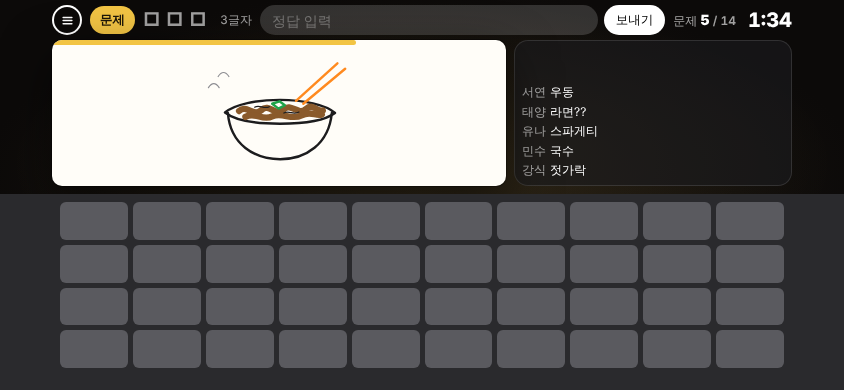
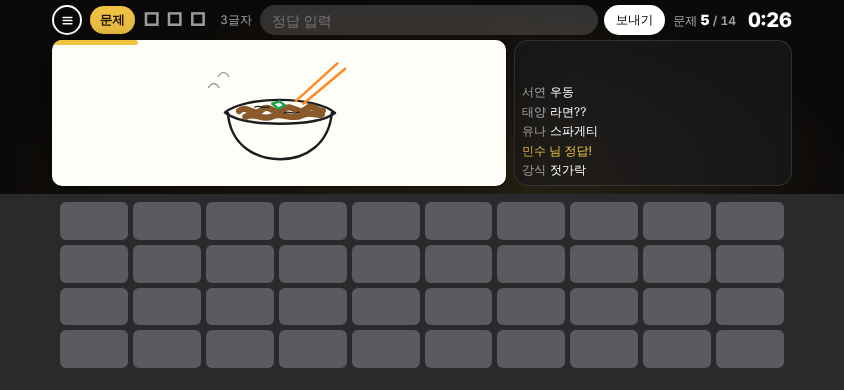
갱식마인드: 기획서·시안 수정 중간 저장(출제 순서, 점수, 이름)
Claude-Session: https://claude.ai/code/session_01HLnaqZjB45q4jBceVSssci

Changed region(s): [[0.154, 0.0923, 0.4313, 0.1231], [0.8626, 0.0308, 0.955, 0.0923], [0.6161, 0.3692, 0.7085, 0.4]]

diff --git a/design/draw/index.html b/design/draw/index.html
@@ -3,7 +3,7 @@
 <head>
 <meta charset="utf-8">
 <meta name="viewport" content="width=device-width,initial-scale=1,viewport-fit=cover">
-<title>그림 눈치 — 정적 시안</title>
+<title>갱식마인드 — 정적 시안</title>
 <!--
   정적 시안(가짜 데이터). 실제 코드가 아니다. 외부 파일 없음.
   화면 고르기: 왼쪽 아래 버튼, 또는 주소 ?s=lobby|room|pick|draw|guess|kb|reveal|final  (&shot=1 이면 버튼 숨김)
@@ -70,9 +70,10 @@ svg{display:block}
 .dr-who>div{min-width:0}
 .dr-nm{font-weight:700;font-size:15px;white-space:nowrap;overflow:hidden;text-overflow:ellipsis}
 .dr-sc{font-size:12.5px;color:var(--ink2);white-space:nowrap}
-.dr-sc b{color:var(--accent);font-size:15px;margin-left:3px}
+.dr-sc b{color:var(--accent);font-size:15px;margin-right:1px}
 .dr-tag{align-self:flex-start;font-size:11px;font-weight:700;padding:2px 7px;border-radius:9px;background:var(--accent);color:var(--on-accent)}
 .dr-tag.host{background:var(--fill2);color:var(--ink)}
+.dr-tag.ok{background:var(--green);color:#fff}
 .dr-say{font-size:13px;line-height:1.3;padding:5px 9px;border-radius:11px 11px 11px 3px;background:#fff;color:#111;align-self:flex-start;max-width:100%;
   display:-webkit-box;-webkit-line-clamp:2;-webkit-box-orient:vertical;overflow:hidden;overflow-wrap:anywhere}
 .dr-say.ok{background:var(--green);color:#fff;font-weight:700}
@@ -144,6 +145,10 @@ svg{display:block}
 .dr-new{font-size:10.5px;font-weight:800;background:var(--accent);color:var(--on-accent);border-radius:7px;padding:1px 5px;margin-left:6px;vertical-align:2px}
 .dr-set{display:flex;flex-direction:column;gap:5px}
 .dr-set label{font-size:13px;color:var(--ink2)}
+.dr-set label small{color:var(--ink3)}
+.dr-chips{display:flex;flex-wrap:wrap;gap:6px}
+.dr-chips span{height:30px;padding:0 11px;border-radius:15px;display:flex;align-items:center;font-size:13px;font-weight:600;background:var(--fill);color:var(--ink3);white-space:nowrap}
+.dr-chips span.on{background:rgba(242,196,68,.2);color:var(--accent);box-shadow:inset 0 0 0 1px rgba(242,196,68,.55)}
 .dr-grow{flex:1}
 .dr-codebig{font-size:34px;font-weight:800;letter-spacing:.16em;color:var(--accent)}
 .dr-row{display:flex;gap:10px;align-items:center}
@@ -190,10 +195,13 @@ svg{display:block}
   .dr-stage{align-content:start}.dr-seats{align-self:stretch}
   .dr-tag{align-self:center;font-size:0;padding:1px 5px;flex:none}
   .dr-tag::before{content:'✎';font-size:11px}
+  .dr-tag.ok::before{content:'✓'}
   .dr-tag.host{display:none}
   .dr-seat:has(.dr-plus) .dr-tag{display:none}
+  .dr-seat:has(.dr-plus) .dr-sc{font-size:0}
+  .dr-plus{font-size:12.5px}
   .dr-say{display:none}
-  .dr-plus{position:static;font-size:14px}
+  .dr-plus{position:static}
   .dr-board{grid-column:3;grid-row:1/3}
   .dr-pal{grid-column:2;grid-row:1/3;margin-top:0;gap:6px;padding:6px;border-radius:14px;align-self:center}
   .dr-tools{grid-column:4;grid-row:1/3;margin-top:0;gap:4px;padding:4px;border-radius:14px;align-self:center}
@@ -233,6 +241,7 @@ svg{display:block}
   .dr-list small{font-size:11.5px}
   .dr-codebig{font-size:24px}
   .dr-set{gap:3px}.dr-set label{font-size:11.5px}
+  .dr-chips{gap:4px}.dr-chips span{height:24px;padding:0 8px;font-size:11.5px}
   .dr-final{width:calc(100vw - 104px);gap:16px}
   .dr-pod{width:76px;gap:3px}.dr-pod .dr-av{width:38px;height:38px;font-size:15px}.dr-pod.first .dr-av{width:50px;height:50px;font-size:20px}
   .dr-pod .st{font-size:17px}.dr-pod.first .st{height:72px}.dr-pod.second .st{height:56px}.dr-pod.third .st{height:44px}
@@ -245,6 +254,9 @@ svg{display:block}
 <div id="app"></div>
 <nav class="mk-nav" id="nav"></nav>
 <script>
+// 게임 이름은 여기 한 곳만 바꾸면 시안 전체가 바뀐다(이름 미정).
+const GAME_NAME = '갱식마인드';
+document.title = GAME_NAME + ' — 정적 시안';
 const P = new URLSearchParams(location.search);
 const S = P.get('s') || 'draw';
 const SCREENS = [['lobby','a1 로비'],['room','a2 방 대기'],['pick','b1 단어 고르기'],['draw','b2 내가 그림'],['guess','c 맞히기'],['kb','c2 키보드(폰)'],['reveal','d 정답 공개'],['final','e 최종 순위']];
@@ -253,8 +265,8 @@ if (P.get('shot') !== '1') document.getElementById('nav').innerHTML = SCREENS.ma
 // 색 12개 (기획서 6-2와 같은 값·순서)
 const COLORS = ['#1c1c1e','#8e8e93','#8a5a2b','#f5c9a3','#e5352b','#ff8a1f','#ffd426','#1fa34a','#3bb8f5','#1f55d6','#8b45d1','#ff7eb8'];
 const PL = [
-  { n: '강식', c: '#b5651d', s: 3, host: 1 }, { n: '지호', c: '#2f6fde', s: 2 }, { n: '민수', c: '#1fa34a', s: 4 }, { n: '서연', c: '#d1456f', s: 1 },
-  { n: '태양', c: '#8b45d1', s: 2 }, { n: '유나', c: '#e08a1a', s: 0 }, { n: '도윤', c: '#3a9aa8', s: 1, off: 1 }, null,
+  { n: '강식', c: '#b5651d', s: 310, host: 1 }, { n: '지호', c: '#2f6fde', s: 240 }, { n: '민수', c: '#1fa34a', s: 420 }, { n: '서연', c: '#d1456f', s: 150 },
+  { n: '태양', c: '#8b45d1', s: 260 }, { n: '유나', c: '#e08a1a', s: 80 }, { n: '도윤', c: '#3a9aa8', s: 120, off: 1 }, null,
 ];
 const I = {
   menu: '<svg viewBox="0 0 24 24" fill="none" stroke="currentColor" stroke-width="2.4" stroke-linecap="round"><path d="M5 7h14M5 12h14M5 17h14"/></svg>',
@@ -278,29 +290,30 @@ const ART = `<svg viewBox="0 0 800 600" fill="none" stroke-linecap="round" strok
 
 function seat(p, i, o) {
   if (!p) return `<div class="dr-seat empty">빈 자리</div>`;
-  const cls = [p.off ? 'off' : '', o.turn === i ? 'turn' : '', o.hit === i ? 'hit' : ''].join(' ');
+  const gain = o.gain && o.gain[i];                 // 정답 공개 때 이번 문제로 얻은 점수
+  const hit = (o.hits || []).includes(i) || (gain && o.turn !== i);
+  const cls = [p.off ? 'off' : '', o.turn === i ? 'turn' : '', hit ? 'hit' : ''].join(' ');
   const say = o.says && o.says[i];
-  const sc = p.s + ((o.hit === i || (o.hit != null && o.turn === i)) ? 1 : 0);
   return `<div class="dr-seat ${cls}">
-    <div class="dr-who"><span class="dr-av" style="background:${p.c}">${p.n[0]}</span><div><div class="dr-nm">${p.n}</div><div class="dr-sc">정답<b>${sc}</b></div></div></div>
-    ${o.turn === i ? '<span class="dr-tag">그리는 중</span>' : p.host ? '<span class="dr-tag host">방장</span>' : ''}
+    <div class="dr-who"><span class="dr-av" style="background:${p.c}">${p.n[0]}</span><div><div class="dr-nm">${p.n}</div><div class="dr-sc"><b>${p.s + (gain || 0)}</b>점</div></div></div>
+    ${o.turn === i ? '<span class="dr-tag">그리는 중</span>' : hit && !gain ? '<span class="dr-tag ok">맞힘</span>' : p.host ? '<span class="dr-tag host">방장</span>' : ''}
     ${p.off ? '<span class="dr-sc">연결 끊김</span>' : ''}
-    ${say ? `<div class="dr-say ${o.hit === i ? 'ok' : ''}">${say}</div>` : ''}
-    ${(o.hit === i || (o.hit != null && o.turn === i)) ? '<span class="dr-plus">+1</span>' : ''}
+    ${say && !hit ? `<div class="dr-say">${say}</div>` : ''}
+    ${gain ? `<span class="dr-plus">+${gain}</span>` : ''}
   </div>`;
 }
 function game(o) {
   const me = o.me;                       // 내가 그리는 사람인가
-  const wordHtml = me || o.hit != null ? `<span class="dr-word">짜장면</span>` : `<span class="dr-word blank">□□□</span><span class="dr-len">3글자</span>`;
+  const wordHtml = me || o.rev ? `<span class="dr-word">짜장면</span>` : `<span class="dr-word blank">□□□</span><span class="dr-len">3글자</span>`;
   const q = `<span class="dr-q">문제</span>${o.pick ? `<span class="dr-len">${me ? '단어를 골라 주세요' : '지호 님이 고르는 중'}</span>` : wordHtml}`;
   const timer = `<span class="dr-timer ${o.low ? 'low' : ''}">${o.time}</span>`;
   const tools = me && !o.pick;
   return `<div class="dr-root ${me ? 'mine' : 'guess'} ${o.kb ? 'kb' : ''}">
    <div class="dr-bar">
      <button class="dr-ic" aria-label="메뉴">${I.menu}</button>
-     <span class="dr-brand">그림 눈치</span><span class="dr-code">KQZT</span>
+     <span class="dr-brand">${GAME_NAME}</span><span class="dr-code">KQZT</span>
      <span class="dr-topq">${q}</span>
-     <span class="dr-topin">${o.hit == null && !o.pick ? '<input class="dr-input" placeholder="정답 입력"><button class="dr-btn primary">보내기</button>' : ''}</span>
+     <span class="dr-topin">${!o.rev && !o.pick ? '<input class="dr-input" placeholder="정답 입력"><button class="dr-btn primary">보내기</button>' : ''}</span>
      <span class="dr-sp"></span>
      <span class="dr-round">문제 <b>5</b> / 14</span>
      <span class="dr-topq">${timer}</span>
@@ -312,19 +325,19 @@ function game(o) {
      <div class="dr-seats l">${PL.slice(0, 4).map((p, i) => seat(p, i, o)).join('')}</div>
      ${tools ? `<div class="dr-pal" role="radiogroup" aria-label="색">${COLORS.map((c, i) => `<button class="dr-sw ${i === 2 ? 'on' : ''}" style="background:${c}" aria-label="색 ${i + 1}"></button>`).join('')}</div>` : ''}
      <div class="dr-board">
-       <div class="dr-strip">${q}<span class="dr-sp"></span>${timer}</div>
+       <div class="dr-strip">${q}<span class="dr-sp"></span>${o.hits ? `<span class="dr-len">맞힌 사람 ${o.hits.length} / 5</span>` : ''}${timer}</div>
        <div class="dr-canvas">${o.pick ? '' : ART}<div class="dr-tbar" style="width:${o.bar}%"></div>
          ${o.pick && me ? `<div class="dr-over"><h3>그릴 단어를 고르세요</h3><div class="dr-picks">
             <button class="dr-pick"><small>음식</small><b>짜장면</b></button><button class="dr-pick"><small>동물</small><b>기린</b></button><button class="dr-pick"><small>탈것</small><b>잠수함</b></button></div>
             <span class="dr-count">7초 뒤 자동으로 고릅니다</span><p>글자·숫자는 쓰지 않고 그림으로만 설명해요</p></div>` : ''}
-         ${o.hit != null ? `<div class="dr-rev"><small>정답</small><b>짜장면</b><span>민수 님 정답! <em>+1</em> · 그린 사람 지호 <em>+1</em></span><small>3초 뒤 다음 문제 · 다음 차례 민수</small></div>` : ''}
+         ${o.rev ? `<div class="dr-rev"><small>정답 · 5명 중 3명이 맞혔어요</small><b>짜장면</b><span>민수 <em>+112</em> · 태양 <em>+74</em> · 강식 <em>+61</em> · 그린 사람 지호 <em>+60</em></span><small>3초 뒤 다음 문제 · 다음 차례 민수</small></div>` : ''}
        </div>
        <div class="dr-under">${tools ? `
           <div class="dr-sizes" role="radiogroup" aria-label="굵기">
             <button class="dr-size"><i style="width:5px;height:5px"></i></button><button class="dr-size on"><i style="width:11px;height:11px"></i></button><button class="dr-size"><i style="width:24px;height:24px"></i></button></div>
-          <span class="dr-hint">글자·숫자는 쓰지 않기 · 20초 동안 안 그리면 넘어가요</span>
+          <span class="dr-hint">글자·숫자는 쓰지 않기 · 모두 맞히면 바로 끝나요</span>
           <button class="dr-btn danger">포기</button>`
-        : o.hit != null || o.pick ? `<span class="dr-hint">${o.pick ? (me ? '' : '곧 그림이 시작됩니다') : ''}</span>`
+        : o.rev || o.pick ? `<span class="dr-hint">${o.pick ? (me ? '' : '곧 그림이 시작됩니다') : ''}</span>`
         : `<input class="dr-input" placeholder="정답을 입력하세요 (Enter)"><button class="dr-btn primary">보내기</button>`}</div>
      </div>
      ${tools ? `<div class="dr-tools">
@@ -332,7 +345,7 @@ function game(o) {
         ${[5, 11, 22].map((d, i) => `<button class="dr-size dr-ph ${i === 1 ? 'on' : ''}"><i style="width:${d}px;height:${d}px"></i></button>`).join('')}<hr class="dr-ph">
         <button class="dr-tool">${I.undo}되돌리기</button><button class="dr-tool">${I.trash}전체 지우기</button></div>` : ''}
      <div class="dr-seats r">${PL.slice(4).map((p, i) => seat(p, i + 4, o)).join('')}</div>
-     <div class="dr-log"><p><b>서연</b>우동</p><p><b>태양</b>라면??</p><p><b>유나</b>스파게티</p><p><b>민수</b>국수</p>${o.hit != null ? '<p class="sys">민수 님 정답!</p>' : '<p><b>강식</b>젓가락</p>'}</div>
+     <div class="dr-log"><p><b>서연</b>우동</p><p><b>태양</b>라면??</p><p><b>유나</b>스파게티</p><p class="sys">민수 님 정답!</p>${o.rev ? '<p class="sys">태양 님 정답!</p><p class="sys">강식 님 정답!</p>' : '<p><b>강식</b>젓가락</p>'}</div>
    </div>
    ${o.kb ? `<div class="mk-kb">${'<i></i>'.repeat(40)}</div>` : ''}
   </div>`;
@@ -340,43 +353,43 @@ function game(o) {
 const says = { 0: '젓가락', 3: '우동', 4: '라면??', 5: '스파게티', 2: '국수' };
 const VIEWS = {
   pick: () => game({ me: 1, pick: 1, turn: 1, time: '0:07', bar: 100 }),
-  draw: () => game({ me: 1, turn: 1, time: '1:34', bar: 67, says }),
-  guess: () => game({ turn: 1, time: '1:34', bar: 67, says }),
-  kb: () => game({ turn: 1, time: '1:34', bar: 67, says, kb: 1 }),
-  reveal: () => game({ turn: 1, hit: 2, time: '1:21', bar: 58, says: { ...says, 2: '짜장면' } }),
+  draw: () => game({ me: 1, turn: 1, time: '0:26', bar: 19, says, hits: [2] }),
+  guess: () => game({ turn: 1, time: '0:26', bar: 19, says, hits: [2] }),
+  kb: () => game({ turn: 1, time: '0:26', bar: 19, says, kb: 1, hits: [2] }),
+  reveal: () => game({ turn: 1, rev: 1, time: '0:00', bar: 0, says, gain: { 2: 112, 4: 74, 0: 61, 1: 60 } }),
   lobby: () => `<div class="dr-center">
     <section class="dr-panel"><h1>♠ 갱식 클럽</h1>
-      <div class="dr-row"><span class="dr-av" style="background:#b5651d;width:64px;height:64px;font-size:26px">강</span><div><h2>강식</h2><p class="dr-cap">칩 12,400 · 그림 정답 37</p></div></div>
+      <div class="dr-row"><span class="dr-av" style="background:#b5651d;width:64px;height:64px;font-size:26px">강</span><div><h2>강식</h2><p class="dr-cap">칩 12,400 · 그림 1등 4번</p></div></div>
       <span class="dr-grow"></span><button class="dr-btn tint">라이어 랭킹</button><p class="dr-cap">사진 바꾸기 · 로그아웃</p></section>
     <section class="dr-panel"><h2>새 게임</h2>
-      <div class="dr-seg" style="--n:4"><span>홀덤</span><span>블러핑</span><span>라이어</span><span class="on">그림 눈치</span></div>
+      <div class="dr-seg" style="--n:4"><span>홀덤</span><span>블러핑</span><span>라이어</span><span class="on">${GAME_NAME}</span></div>
       <p class="dr-cap">2~8명 · 그림 보고 단어 맞히기</p>
       <button class="dr-btn primary">방 만들기</button>
       <h2>열린 방</h2>
-      <ul class="dr-list"><li><span class="g"><b>그림 눈치</b><span class="dr-new">NEW</span> <small>지호 님의 방</small></span><small>3/8 · 대기</small></li>
+      <ul class="dr-list"><li><span class="g"><b>${GAME_NAME}</b><span class="dr-new">NEW</span> <small>지호 님의 방</small></span><small>3/8 · 대기</small></li>
         <li><span class="g"><b>텍사스 홀덤</b> <small>민수 님의 방</small></span><small>4/6 · 게임 중</small></li></ul>
-      <span class="dr-grow"></span><p class="dr-cap">주소에 ?draw=1 이 있을 때만 "그림 눈치" 칸이 보입니다 (숨김 스위치 DRAW=test)</p></section></div>`,
+      <span class="dr-grow"></span><p class="dr-cap">주소에 ?draw=1 이 있을 때만 "${GAME_NAME}" 칸이 보입니다 (숨김 스위치 DRAW=test)</p></section></div>`,
   room: () => `<div class="dr-center">
-    <section class="dr-panel"><p class="dr-cap">그림 눈치 · 방 코드</p>
+    <section class="dr-panel"><p class="dr-cap">${GAME_NAME} · 방 코드</p>
       <div class="dr-row"><span class="dr-codebig">KQZT</span><span class="dr-grow"></span><button class="dr-btn tint">복사</button></div>
       <h2>참가자 5 / 8</h2>
       <ul class="dr-list">${PL.slice(0, 5).map((p) => `<li><span class="dr-av" style="background:${p.c}">${p.n[0]}</span><span class="g">${p.n}</span><small>${p.host ? '방장' : ''}</small></li>`).join('')}</ul>
       <span class="dr-grow"></span><input class="dr-input" style="flex:none" placeholder="채팅"></section>
     <section class="dr-panel"><h2>방 설정 <small class="dr-cap">방장만 바꿀 수 있어요</small></h2>
+      <div class="dr-set"><label>출제 순서 <small>· 자리 순서대로 돌아가며 그려요</small></label><div class="dr-seg" style="--n:3"><span class="on">순서대로</span><span>맞힌 사람</span><span>랜덤</span></div></div>
+      <div class="dr-set"><label>라운드 수 <small>· 한 라운드에 모두 한 번씩 그려요</small></label><div class="dr-seg" style="--n:4"><span>1</span><span class="on">2</span><span>3</span><span>5</span></div></div>
       <div class="dr-set"><label>그리는 시간</label><div class="dr-seg" style="--n:3"><span>60초</span><span>90초</span><span class="on">2분 20초</span></div></div>
-      <div class="dr-set"><label>한 사람이 그리는 횟수</label><div class="dr-seg" style="--n:3"><span>1번</span><span class="on">2번</span><span>3번</span></div></div>
-      <div class="dr-set"><label>단어</label><div class="dr-seg" style="--n:2"><span class="on">3개 중 고르기</span><span>자동으로 받기</span></div></div>
-      <div class="dr-set"><label>글자 수 알려 주기</label><div class="dr-seg" style="--n:2"><span class="on">켬</span><span>끔</span></div></div>
-      <p class="dr-cap">문제 10개 · 주제 8개 사용 중</p>
+      <div class="dr-set"><label>주제 <small>· 눌러서 켜고 끄기</small></label><div class="dr-chips">${['음식', '동물', '직업', '장소', '스포츠', '물건', '취미', '탈것'].map((t) => `<span class="on">${t}</span>`).join('')}${['영화·만화', '나라·도시', '인물'].map((t) => `<span>${t}</span>`).join('')}</div></div>
+      <p class="dr-cap">5명 × 2라운드 = 문제 10개 · 단어 3개 중 고르기 · 글자 수 표시</p>
       <span class="dr-grow"></span>
       <div class="dr-row"><button class="dr-btn danger" style="flex:0 0 auto">나가기</button><button class="dr-btn primary">시작</button></div></section></div>`,
   final: () => {
-    const r = [['민수', '#1fa34a', 9, 4], ['강식', '#b5651d', 7, 3], ['지호', '#2f6fde', 6, 4], ['태양', '#8b45d1', 4, 2], ['서연', '#d1456f', 3, 3], ['유나', '#e08a1a', 2, 1], ['도윤', '#3a9aa8', 1, 0]];
-    const pod = (i, cls, rank) => `<div class="dr-pod ${cls}"><span class="dr-av" style="background:${r[i][1]}">${r[i][0][0]}</span><span class="nm">${r[i][0]}</span><div class="st">${rank}<small>정답 ${r[i][2]}</small></div></div>`;
+    const r = [['민수', '#1fa34a', 1120, 9], ['강식', '#b5651d', 960, 8], ['지호', '#2f6fde', 890, 7], ['태양', '#8b45d1', 720, 7], ['서연', '#d1456f', 540, 5], ['유나', '#e08a1a', 410, 4], ['도윤', '#3a9aa8', 180, 2]];
+    const pod = (i, cls, rank) => `<div class="dr-pod ${cls}"><span class="dr-av" style="background:${r[i][1]}">${r[i][0][0]}</span><span class="nm">${r[i][0]}</span><div class="st">${rank}<small>${r[i][2]}점</small></div></div>`;
     return `<div class="dr-center"><section class="dr-panel dr-final">
       <div><h2>최종 순위</h2><div class="dr-podium">${pod(1, 'second', 2)}${pod(0, 'first', 1)}${pod(2, 'third', 3)}</div></div>
-      <div><ul class="dr-list">${r.slice(3).map((p, i) => `<li><small>${i + 4}</small><span class="dr-av" style="background:${p[1]}">${p[0][0]}</span><span class="g">${p[0]}</span><small>그림 성공 ${p[3]}</small><b class="s">정답 ${p[2]}</b></li>`).join('')}</ul>
-        <p class="dr-cap">정답 수 = 맞힌 횟수 + 내 그림을 누가 맞힌 횟수. 같으면 맞힌 횟수가 많은 사람이 위.</p>
+      <div><ul class="dr-list">${r.slice(3).map((p, i) => `<li><small>${i + 4}</small><span class="dr-av" style="background:${p[1]}">${p[0][0]}</span><span class="g">${p[0]}</span><small>맞힘 ${p[3]}</small><b class="s">${p[2]}점</b></li>`).join('')}</ul>
+        <p class="dr-cap">빨리 맞힐수록, 내 그림을 많이 맞힐수록 점수가 높아요. 점수가 같으면 맞힌 횟수가 많은 사람이 위.</p>
         <span class="dr-grow"></span>
         <div class="dr-row"><button class="dr-btn tint">방으로</button><button class="dr-btn primary">한 판 더</button></div></div>
     </section></div>`;
